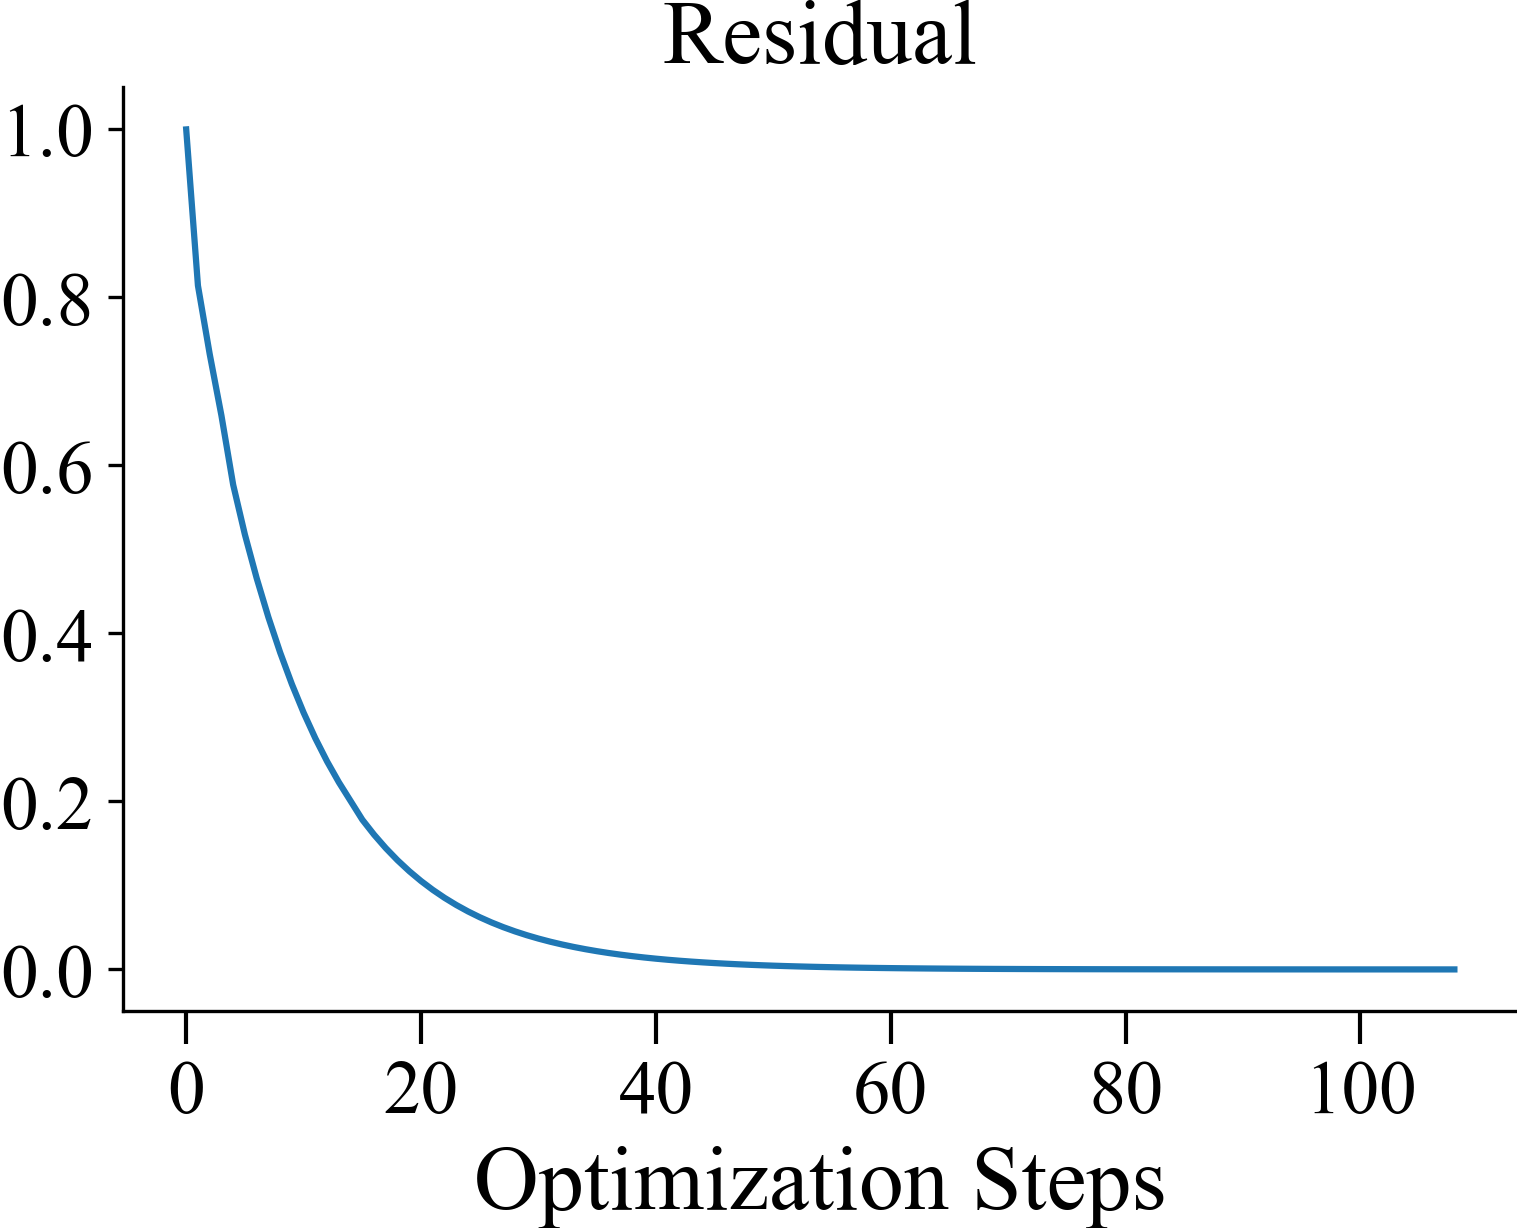
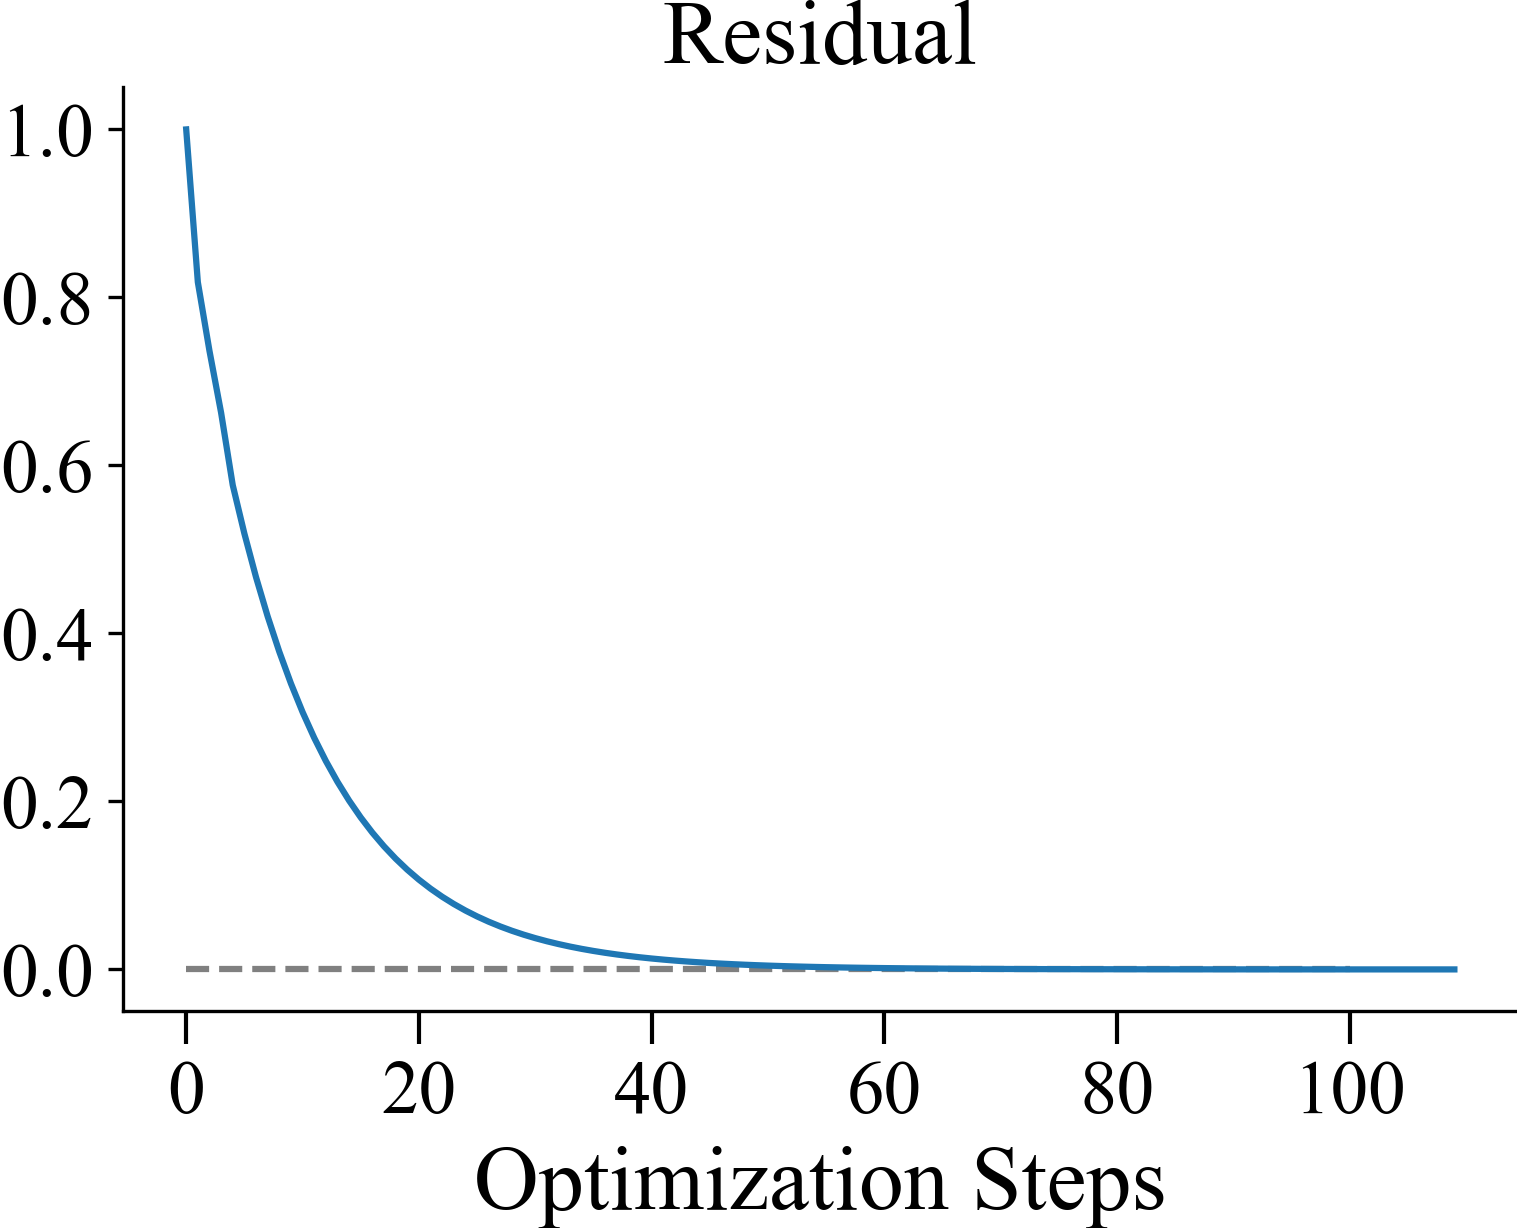
add dqn with double-dqn implementation

diff --git a/toy_mdp/value_iteration.py b/toy_mdp/value_iteration.py
@@ -1,38 +1,82 @@
-import numpy as np
-from cmx import doc
+from copy import deepcopy
 
+import numpy as np
+import torch.optim
+from cmx import doc
+from tqdm import trange
 
 
 def perform_vi(states, rewards, dyn_mats, gamma=0.9, eps=1e-5):
     # Assume discrete actions and states
-    num_actions, num_states = dyn_mats.shape[:2]
-    q_values = np.zeros((num_actions, num_states))
-    done = False
+    q_values = np.zeros(dyn_mats.shape[:2])
+
     deltas = []
-    while not done:
-        new_q_values = np.zeros_like(q_values)
+    while not deltas or deltas[-1] >= eps:
+        old = q_values
+        q_max = q_values.max(axis=0)
+        q_values = rewards + gamma * dyn_mats @ q_max
 
-        for action in range(num_actions):
-            new_q_values[action] = rewards[action] + gamma * dyn_mats[action].dot(np.max(q_values, axis=0))
-
-        delta = np.max(np.abs(new_q_values - q_values))
-        deltas.append(delta)
-        done = (delta < eps)
-        q_values = new_q_values
+        deltas.append(np.abs(old - q_values).max())
 
     return q_values, deltas
 
 
+def perform_deep_vi(states, rewards, dyn_mats, lr=1e-4, gamma=0.9):
+    import torch.nn as nn
+    # Ge: need to initialize the Q function at zero
+    Q = nn.Sequential(
+        nn.Linear(1, 200),
+        nn.ReLU(),
+        nn.Linear(200, 200),
+        nn.ReLU(),
+        nn.Linear(200, 200),
+        nn.ReLU(),
+        nn.Linear(200, 200),
+        nn.ReLU(),
+        nn.Linear(200, 2),
+    )
+    Q_target = deepcopy(Q)
+
+    optim = torch.optim.RMSprop(Q.parameters(), lr=lr)
+    l1 = nn.functional.smooth_l1_loss
+
+    states = torch.FloatTensor(states).unsqueeze(-1)
+    rewards = torch.FloatTensor(rewards)
+    dyn_mats = torch.FloatTensor(dyn_mats)
+
+    losses = []
+
+    for epoch in trange(400):
+        if epoch % 10 == 0:
+            Q_target.load_state_dict(Q.state_dict())
+
+        q_max, actions = Q_target(states).max(dim=-1)
+        td_target = rewards + gamma * dyn_mats @ q_max
+        td_loss = l1(Q(states), td_target.T)
+        losses.append(td_loss.detach().numpy())
+
+        optim.zero_grad()
+        td_loss.backward()
+        optim.step()
+
+    q_values = Q(states).T.detach().numpy()
+    return q_values, losses
+
+
 if __name__ == "__main__":
-    with doc, doc.table().figure_row() as r:
+    doc @ """
+    Here is the ground truth value function generated via tabular
+    value iteration. It shows even for simple dynamics, the value
+    function can be exponentially more complex.
+    """
+    with doc.table().figure_row() as r:
         from rand_mdp import RandMDP
         from matplotlib import pyplot as plt
 
-        num_states = 200
+        num_states = 100
         mdp = RandMDP(seed=0, option='fixed')
         states, rewards, dyn_mats = mdp.get_discrete_mdp(num_states=num_states)
         q_values, loss = perform_vi(states, rewards, dyn_mats)
-        q_values.shape
         plt.plot(states, q_values[0], label="action 1")
         plt.plot(states, q_values[1], label="action 2")
         plt.title("Toy MDP")
@@ -43,7 +87,40 @@ if __name__ == "__main__":
         plt.close()
 
         plt.plot(loss)
+        plt.hlines(0, 0, len(states), linestyle='--', color='gray')
         plt.title("Residual")
         plt.xlabel('Optimization Steps')
         r.savefig(f'figures/residual.png?ts={doc.now("%f")}', dpi=300, zoom=0.3)
         plt.close()
+
+    doc @ """
+    Here we plot the value function learned via deep Q Learning 
+    (DQN) using a neural network function approximator.
+    """
+    doc.flush()
+
+    with doc.table().figure_row() as r:
+        from rand_mdp import RandMDP
+        from matplotlib import pyplot as plt
+
+        num_states = 100
+        mdp = RandMDP(seed=0, option='fixed')
+        states, rewards, dyn_mats = mdp.get_discrete_mdp(num_states=num_states)
+        q_values, losses = perform_deep_vi(states, rewards, dyn_mats)
+        plt.plot(states, q_values[0], label="action 1")
+        plt.plot(states, q_values[1], label="action 2")
+        plt.title("Toy MDP")
+        plt.legend()
+        plt.xlabel('State [0, 1)')
+        plt.ylabel('Value')
+        r.savefig(f'figures/q_learning.png?ts={doc.now("%f")}', dpi=300, zoom=0.3)
+        plt.close()
+
+        plt.plot(losses)
+        plt.hlines(0, 0, len(losses), linestyle='--', color='gray')
+        plt.title("Residual")
+        plt.xlabel('Optimization Steps')
+        r.savefig(f'figures/td_loss.png?ts={doc.now("%f")}', dpi=300, zoom=0.3)
+        plt.close()
+
+    doc.flush()

diff --git a/toy_mdp/value_iteration.md b/toy_mdp/value_iteration.md
@@ -1,27 +1,13 @@
-```python
-from rand_mdp import RandMDP
-from matplotlib import pyplot as plt
 
-num_states = 200
-mdp = RandMDP(seed=0, option='fixed')
-states, rewards, dyn_mats = mdp.get_discrete_mdp(num_states=num_states)
-q_values, loss = perform_vi(states, rewards, dyn_mats)
-q_values.shape
-plt.plot(states, q_values[0], label="action 1")
-plt.plot(states, q_values[1], label="action 2")
-plt.title("Toy MDP")
-plt.legend()
-plt.xlabel('State [0, 1)')
-plt.ylabel('Value')
-r.savefig(f'figures/toy_mdp.png?ts={doc.now("%f")}', dpi=300, zoom=0.3)
-plt.close()
+Here is the ground truth value function generated via tabular
+value iteration. It shows even for simple dynamics, the value
+function can be exponentially more complex.
 
-plt.plot(loss)
-plt.title("Residual")
-plt.xlabel('Optimization Steps')
-r.savefig(f'figures/residual.png?ts={doc.now("%f")}', dpi=300, zoom=0.3)
-plt.close()
-```
-
-| <img style="align-self:center; zoom:0.3;" src="figures/toy_mdp.png?ts=958105" image="None" styles="{'margin': '0.5em'}" width="None" height="None" dpi="300"/> | <img style="align-self:center; zoom:0.3;" src="figures/residual.png?ts=544417" image="None" styles="{'margin': '0.5em'}" width="None" height="None" dpi="300"/> |
+| <img style="align-self:center; zoom:0.3;" src="figures/toy_mdp.png?ts=561073" image="None" styles="{'margin': '0.5em'}" width="None" height="None" dpi="300"/> | <img style="align-self:center; zoom:0.3;" src="figures/residual.png?ts=980103" image="None" styles="{'margin': '0.5em'}" width="None" height="None" dpi="300"/> |
 |:--------------------------------------------------------------------------------------------------------------------------------------------------------------:|:---------------------------------------------------------------------------------------------------------------------------------------------------------------:|
+
+
+Here we plot the value function learned via deep Q Learning 
+(DQN) using a neural network function approximator.
+| <img style="align-self:center; zoom:0.3;" src="figures/q_learning.png?ts=827326" image="None" styles="{'margin': '0.5em'}" width="None" height="None" dpi="300"/> | <img style="align-self:center; zoom:0.3;" src="figures/td_loss.png?ts=208235" image="None" styles="{'margin': '0.5em'}" width="None" height="None" dpi="300"/> |
+|:-----------------------------------------------------------------------------------------------------------------------------------------------------------------:|:--------------------------------------------------------------------------------------------------------------------------------------------------------------:|
